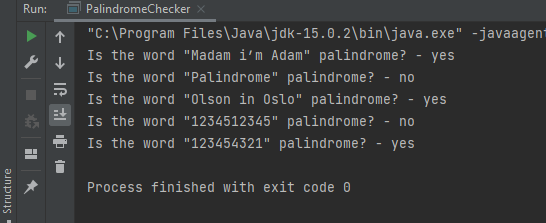
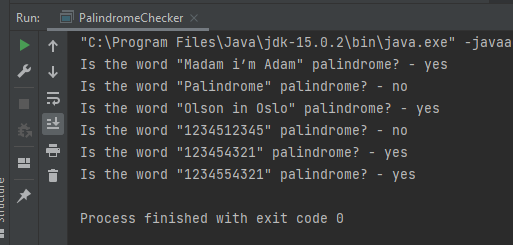
Edit README.md

diff --git a/src/Extra/Palindrome/PalindromeChecker.java b/src/Extra/Palindrome/PalindromeChecker.java
@@ -4,7 +4,7 @@ import java.util.Locale;
 
 public class PalindromeChecker {
     public static void main(String[] args) {
-        String[] words = {"Madam i’m Adam", "Palindrome", "Olson in Oslo", "1234512345", "123454321"};
+        String[] words = {"Madam i’m Adam", "Palindrome", "Olson in Oslo", "1234512345", "123454321", "1234554321"};
         PalindromeChecker checker = new PalindromeChecker();
         for (String word: words) {
             System.out.println("Is the word \"" + word + "\" palindrome? - " + checker.checkPalindrome(word));

diff --git a/README.md b/README.md
@@ -1,2 +1,3 @@
 # java_homework
-Домашние задания по курсу Java Fundamentals в IT-Academy
+<p>Домашние задания по курсу Java Fundamentals в IT-Academy 
+<br>+ другие задания по Java Core из разных источников</p>
